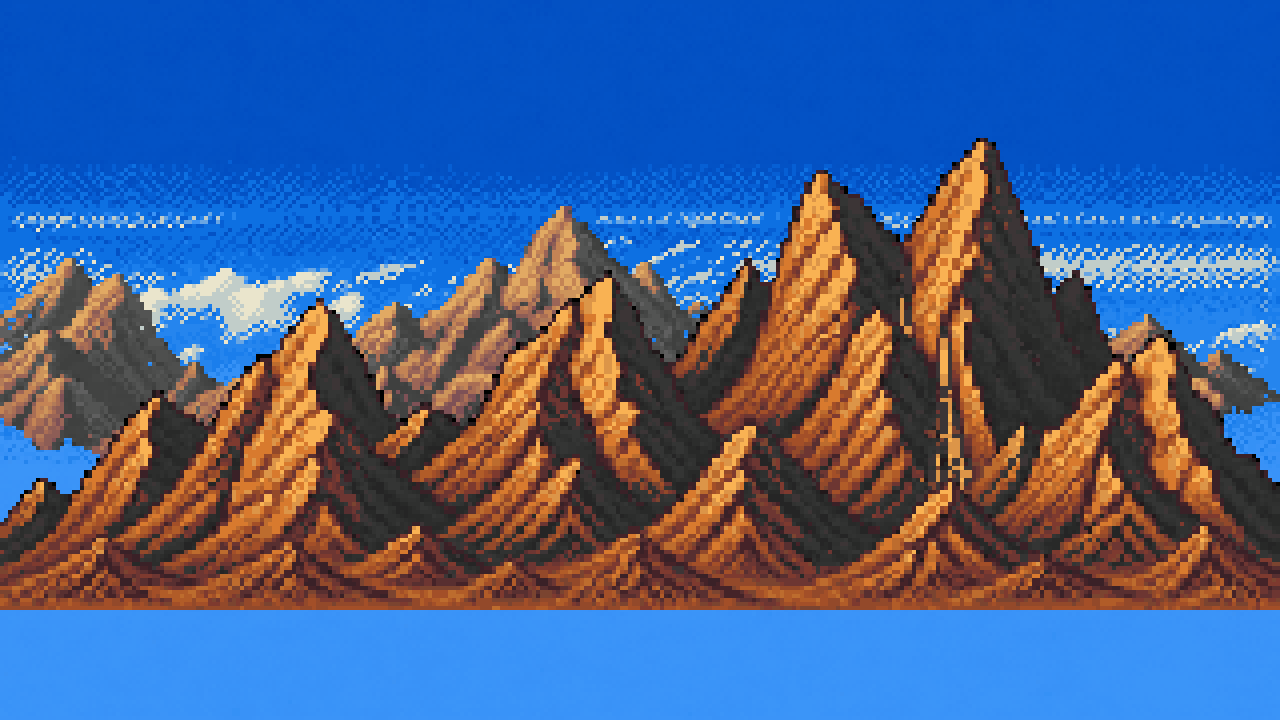
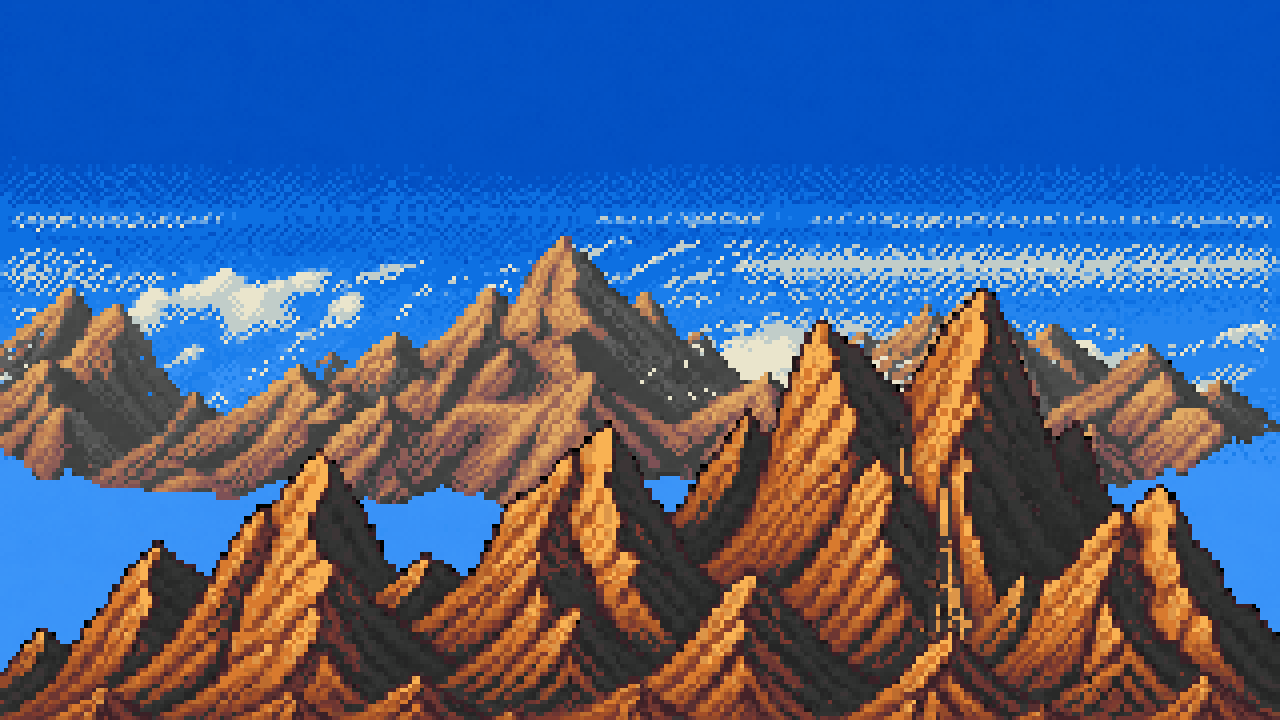
refactor(background): apply BG3 pair-review findings (hardening + structural oracle)
- background_validator.gd: reject distance_z >= 0 and negative parallax
- background_layer_instance.gd: unified pixel snapping between setup and parallax
- background_controller.gd: document chase-camera euler (XYZ, no roll) assumption
- visual_test_la_chutana_3_layer_capture.gd: label as requires-display, warn in headless
- analyze_composition.py: structural oracle (first mountain row ~40%) replaces RMSE as primary; RMSE demoted to secondary
- test_background_preset_validator.gd: 2 new tests (positive distance_z, negative parallax), 11/11 PASS
- All BG3 suites PASS: validator, controller, preset integration, smoke, spike

diff --git a/tools/background_analysis/analyze_composition.py b/tools/background_analysis/analyze_composition.py
@@ -74,6 +74,36 @@ def compare_compositions(comp, ref, label):
         match = "OK" if dist < 60 else "DIFF"
         print(f"    y={y_pct:3d}%: comp=RGB({c[0]:3d},{c[1]:3d},{c[2]:3d}) ref=RGB({r[0]:3d},{r[1]:3d},{r[2]:3d}) dist={dist:.0f} [{match}]")
 
+
+## Metrica estructural: primera fila donde el composite difiere del cielo.
+## El RMSE contra la foto de referencia es un oracle pobre (la foto contiene
+## pista/coches/edificios ausentes en el arte pixel-art); la posicion de la
+## primera montana visible es la metrica estructural que guia el ajuste.
+def first_mountain_row_pct(comp, sky):
+    comp_arr = np.array(comp.convert("RGBA"))
+    sky_arr = np.array(sky.convert("RGBA"))
+    h = comp_arr.shape[0]
+    for y in range(h):
+        comp_row = comp_arr[y, :, :3].astype(float)
+        sky_row = sky_arr[y, :, :3].astype(float)
+        diff = np.mean(np.abs(comp_row - sky_row))
+        if diff > 8.0:
+            return 100.0 * y / h
+    return 100.0
+
+
+def report_structure(comp, sky, label):
+    pct = first_mountain_row_pct(comp, sky)
+    # Banda objetivo derivada de la referencia: montana visible ~35-45%
+    if 30.0 <= pct <= 50.0:
+        verdict = "OK"
+    elif pct < 30.0:
+        verdict = "DEMASIADO ALTA"
+    else:
+        verdict = "DEMASIADO BAJA"
+    print(f"  {label}: primera montana visible en {pct:.1f}% desde arriba [{verdict}]")
+    return pct
+
 def main():
     print("=== BG3-007: Analisis de composicion ===\n")
 
@@ -91,69 +121,76 @@ def main():
     print("\n--- Composicion actual (offset_y = 0) ---")
     current = composite_layers(sky, far, near)
     current.save(os.path.join(OUT_DIR, "composite_current.png"))
+    print("\n[Estructura]")
+    report_structure(current, sky, "Actual")
+    print("\n[RMSE (referencia de color, oracle secundario)]")
     compare_compositions(current, ref, "Actual")
 
-    # Try different far_mountains offsets
-    print("\n--- Buscando offset_y optimo para far_mountains ---")
+    # Buscar offset_y optimo con la METRICA ESTRUCTURAL (primera montana ~40%).
+    # El RMSE contra la foto es un oracle pobre: la foto incluye pista/coches
+    # que el arte pixel-art no reproduce. La estructura es la autoridad.
+    print("\n--- Buscando offset_y optimo (metrica estructural: primera montana ~40%) ---")
     best_offset = 0
     best_score = float("inf")
 
-    for offset in range(-200, 1, 10):
+    for offset in range(-400, 1, 10):
         test = composite_layers(sky, far, near, far_offset_y=offset)
-        test_arr = np.array(test.convert("RGB"))
-        ref_arr = np.array(ref.convert("RGB").resize((TARGET_W, TARGET_H), Image.NEAREST))
-        # Compare the mountain band (y 30%-80%)
-        band = slice(int(TARGET_H * 0.3), int(TARGET_H * 0.8))
-        diff = np.sqrt(np.mean((test_arr[band].astype(float) - ref_arr[band].astype(float)) ** 2))
-        if diff < best_score:
-            best_score = diff
+        pct = first_mountain_row_pct(test, sky)
+        score = abs(pct - 40.0)
+        if score < best_score:
+            best_score = score
             best_offset = offset
 
-    print(f"  Mejor offset para far_mountains: {best_offset}px (RMSE={best_score:.1f})")
+    print(f"  Mejor offset para far_mountains: {best_offset}px (primera montana ~{40 + best_score:.0f}%)")
     optimized = composite_layers(sky, far, near, far_offset_y=best_offset)
     optimized.save(os.path.join(OUT_DIR, "composite_optimized_far.png"))
+    print("\n[Estructura]")
+    report_structure(optimized, sky, "Optimizado (solo far)")
+    print("\n[RMSE]")
     compare_compositions(optimized, ref, "Optimizado (solo far)")
 
-    # Try combined far + near offsets
-    print("\n--- Buscando offset combinado far + near ---")
+    # Buscar offset combinado far + near con la metrica estructural
+    print("\n--- Buscando offset combinado far + near (metrica estructural) ---")
     best_combo = (0, 0)
     best_combo_score = float("inf")
 
-    for far_off in range(-200, 1, 20):
-        for near_off in range(-100, 50, 20):
+    for far_off in range(-400, 1, 20):
+        for near_off in range(-300, 100, 20):
             test = composite_layers(sky, far, near, far_offset_y=far_off, near_offset_y=near_off)
-            test_arr = np.array(test.convert("RGB"))
-            ref_arr = np.array(ref.convert("RGB").resize((TARGET_W, TARGET_H), Image.NEAREST))
-            band = slice(int(TARGET_H * 0.25), int(TARGET_H * 0.85))
-            diff = np.sqrt(np.mean((test_arr[band].astype(float) - ref_arr[band].astype(float)) ** 2))
-            if diff < best_combo_score:
-                best_combo_score = diff
+            pct = first_mountain_row_pct(test, sky)
+            score = abs(pct - 40.0)
+            if score < best_combo_score:
+                best_combo_score = score
                 best_combo = (far_off, near_off)
 
-    print(f"  Mejor combo: far={best_combo[0]}px, near={best_combo[1]}px (RMSE={best_combo_score:.1f})")
+    print(f"  Mejor combo: far={best_combo[0]}px, near={best_combo[1]}px (primera montana ~{40 + best_combo_score:.0f}%)")
     combo = composite_layers(sky, far, near, far_offset_y=best_combo[0], near_offset_y=best_combo[1])
     combo.save(os.path.join(OUT_DIR, "composite_optimized_combo.png"))
+    print("\n[Estructura]")
+    report_structure(combo, sky, "Optimizado (combo)")
+    print("\n[RMSE]")
     compare_compositions(combo, ref, "Optimizado (combo)")
 
-    # Fine-tune around best combo
+    # Fine-tuning alrededor del mejor combo
     print("\n--- Fine-tuning alrededor del mejor combo ---")
     best_fine = best_combo
     best_fine_score = best_combo_score
 
-    for far_off in range(best_combo[0] - 30, best_combo[0] + 30, 5):
-        for near_off in range(best_combo[1] - 20, best_combo[1] + 20, 5):
+    for far_off in range(best_combo[0] - 60, best_combo[0] + 60, 5):
+        for near_off in range(best_combo[1] - 40, best_combo[1] + 40, 5):
             test = composite_layers(sky, far, near, far_offset_y=far_off, near_offset_y=near_off)
-            test_arr = np.array(test.convert("RGB"))
-            ref_arr = np.array(ref.convert("RGB").resize((TARGET_W, TARGET_H), Image.NEAREST))
-            band = slice(int(TARGET_H * 0.25), int(TARGET_H * 0.85))
-            diff = np.sqrt(np.mean((test_arr[band].astype(float) - ref_arr[band].astype(float)) ** 2))
-            if diff < best_fine_score:
-                best_fine_score = diff
+            pct = first_mountain_row_pct(test, sky)
+            score = abs(pct - 40.0)
+            if score < best_fine_score:
+                best_fine_score = score
                 best_fine = (far_off, near_off)
 
-    print(f"  Fine-tune: far={best_fine[0]}px, near={best_fine[1]}px (RMSE={best_fine_score:.1f})")
+    print(f"  Fine-tune: far={best_fine[0]}px, near={best_fine[1]}px (primera montana ~{40 + best_fine_score:.0f}%)")
     final = composite_layers(sky, far, near, far_offset_y=best_fine[0], near_offset_y=best_fine[1])
     final.save(os.path.join(OUT_DIR, "composite_final.png"))
+    print("\n[Estructura]")
+    report_structure(final, sky, "Final")
+    print("\n[RMSE]")
     compare_compositions(final, ref, "Final")
 
     # Convert pixel offsets to world-space offset_y for background.json
@@ -163,7 +200,7 @@ def main():
     # For our case: pixel_size=0.5, scale=1.0
     # sprite_world_height = 720 * 0.5 * 1.0 = 360 units
     # world_offset_y = pixel_offset * (sprite_world_height / texture_height) = pixel_offset * 0.5
-    print("\n=== AJUSTES RECOMENDADOS PARA background.json ===")
+    print("\n=== AJUSTES RECOMENDADOS PARA background.json (referencia estructural) ===")
     print(f"  far_mountains.offset_y: {best_fine[0] * 0.5:.1f} (pixel offset: {best_fine[0]})")
     print(f"  near_mountains.offset_y: {best_fine[1] * 0.5:.1f} (pixel offset: {best_fine[1]})")
     print(f"  sky.offset_y: 0.0 (sin cambio)")
@@ -172,10 +209,12 @@ def main():
     with open(os.path.join(OUT_DIR, "bg3_007_analysis.txt"), "w") as f:
         f.write("BG3-007 Composition Analysis\n")
         f.write("============================\n\n")
+        f.write("Oracle: metrica estructural (primera fila de montana visible, ~40% objetivo).\n")
+        f.write("El RMSE de color contra la foto de referencia es oracle secundario.\n\n")
         f.write(f"Reference: {REF_PATH}\n")
         f.write(f"Far mountains best offset: {best_fine[0]}px -> {best_fine[0] * 0.5:.1f} world units\n")
         f.write(f"Near mountains best offset: {best_fine[1]}px -> {best_fine[1] * 0.5:.1f} world units\n")
-        f.write(f"Final RMSE: {best_fine_score:.1f}\n")
+        f.write(f"Final structural score (|first_mountain_pct - 40|): {best_fine_score:.1f}\n")
         f.write(f"\nOutputs:\n  composite_current.png\n  composite_optimized_far.png\n  composite_optimized_combo.png\n  composite_final.png\n")
 
     print(f"\nReportes guardados en: {OUT_DIR}")
